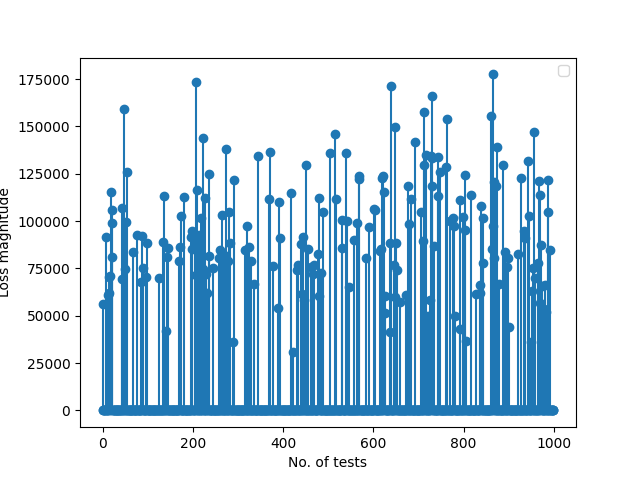
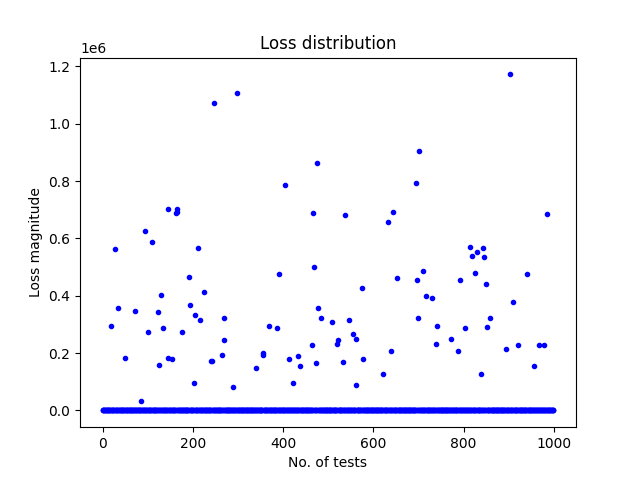
update and fixes

diff --git a/distros/cyberrisk_sim.py b/distros/cyberrisk_sim.py
@@ -1,13 +1,12 @@
 import matplotlib.pyplot as plt
 import numpy as np
 
-# Simple simulation of a cyberthreat event against IT (cyberattack)
-# Attack is successfull/failed given prior estimated probability
-# If the attack is successful it may cause harm - in $$$
-# With 90% confidence we can estimate interval of the loss, and
-# Lognormal distribution which largely fits the distribution of security
-# incidents where there's far greater number of events with small losess, than
-# those which inflict catastrophic losses.
+# Prosta symulacja zdarzenia cyberbezpieczeństwa, o oszacowanym P;
+# Jeśli atak by się powiódł, oszacowano wystąpienie straty w przedziale X, Y z poziomem
+# ufności 90% (tzn, jest 5% P, ze straty wyjdą poza przedział).
+# Zastosowano tutaj rozkład log-normalny, który istotnie pasuje do rozkładu
+# incydentów bezpieczeństwa, gdzie te najbardziej prawdopodobne (i najczęstsze)
+# przynoszą mniejsze straty, niz te rzadsze.
 
 def threat_event_happened(event_probability):
     return np.random.rand() < event_probability
@@ -23,53 +22,94 @@ def threat_event_comp_by_sec(event_probability, ctrl_reduct):
     return reduced
 
 def loss_distribution(te_prob, ctrl_reduct, no_of_simulations, lower_bnd, upper_bnd):
-    i = 0
-    accum = 0
     sim_lst = []
     for i in range(no_of_simulations):
         if (threat_event_comp_by_sec(te_prob,ctrl_reduct)) > 0:
             threat_loss = threat_event_loss(lower_bnd, upper_bnd)
             sim_lst.append("{:.2f}".format(threat_loss))
-            accum += threat_loss
         else:
             threat_loss = 0
             sim_lst.append(threat_loss)    
-    loss_average = accum/i
-    return sim_lst, loss_average
+    return sim_lst
+
+def loss_average(sim_lst):
+    x = 0
+    accu = 0
+    losses = list(map(float, sim_lst))
+    for loss in losses:
+        if loss > 0:
+            accu += loss
+            x += 1
+    loss_ave = round(accu/x, 2)
+    return loss_ave
 
 def draw_loss_distribution(sim_lst):
     x = 0
     losses = list(map(float, sim_lst))
     fig, ax = plt.subplots()
     for loss in losses:
-        ax.stem(x, loss)
+        ax.plot(x, loss,  **{'color': 'blue', 'marker': '.'})
         x += 1
     ax.set_xlabel('No. of tests')
     ax.set_ylabel('Loss magnitude')
-    ax.legend()
-    plt.savefig('fig1.png')
+    ax.set_title('Loss distribution')
+    fig.savefig('fig1.png')
 
-###################################
-# Example:
-# P(TE) = 20%
-# LOSS(TE) -> LB = 50 000 PLN
-# LOSS(TE) -> UB = 150 000 PLN
-#
-# Security Control in place
-# -> reduction P(TE) by 70%
-#
-# Number of simulations: 1000
-###################################
+def loss_exceedance_curve(sim_lst, TE_UB, STEP):
+    loss_ex_lst = []
+    losses = list(map(float, sim_lst))
+    losses_count = 0
+    for loss in losses:
+        if loss > 0: losses_count += 1
+    for x in range(0,TE_UB,STEP):
+        accu = 0
+        for loss in losses:
+            if loss > 0 and loss > x: 
+                accu += 1
+        loss_ex_lst.append([x,round(accu/losses_count,2)*100])
+    return loss_ex_lst
 
-TE = 0.2
-TE_LB = 50000
-TE_UB = 150000
+def draw_loss_exceedance(lst, lst_for_risk_tolerance):
+    fig, ax = plt.subplots()
+    for x, perc in lst:
+        ax.plot(x, perc, **{'color': 'black', 'marker': '.'})
+    for x, perc in lst_for_risk_tolerance:
+        ax.plot(x, perc, **{'color': 'red', 'marker': '.'})
+    ax.set_xlabel('Loss magnitude')
+    ax.set_ylabel('P(loss exceeded)')
+    ax.set_title('Loss exceedance curve')
+    fig.savefig('fig2.png')
+
+#######################################################################
+# Przykład:
+# Wystąpienie zdarzenia - P(TE) = 10%
+# dolna granica oczekiwanej straty - LOSS(TE) -> LB = 100 000 PLN
+# górna granica oczekiwanej straty - LOSS(TE) -> UB = 1 000 000 PLN
+#
+# Istniejące środki bezpieczeństwa:
+# -> redukcja wystąpienia P(TE) o 70%
+#
+# Liczba symulacji: 1000
+#
+# Zakładana tolerancja na strate w następstwie incydentow bezp w ciagu roku:
+#   100 000 PLN - 90%
+#   250 000 PLN - 50%
+#   500 000 PLN - 20%
+#   750 000 PLN -  5%
+#  1000 000 PLN -  1%
+########################################################################
+
+TE = 0.1
+TE_LB = 100000
+TE_UB = 1000000
+STEP = 25000
 SEC_CTRL_RED = 0.7
 NO_SIMULATIONS = 1000
+RISK_TOLERANCE = [[100000,90], [250000,50], [500000,20],[750000,5],[1000000,1]]
 
 # run:
 
-sim_lst, loss_ave = loss_distribution(TE, SEC_CTRL_RED, NO_SIMULATIONS, TE_LB, TE_UB)
+sim_lst = loss_distribution(TE, SEC_CTRL_RED, NO_SIMULATIONS, TE_LB, TE_UB)
 draw_loss_distribution(sim_lst)
-print("Average loss: {:,.2f} PLN".format(loss_ave))
-# draw_loss_exceedance_curve(sim_lst)
+print("Average loss: {:,.2f} PLN".format(loss_average(sim_lst)))
+draw_loss_exceedance(loss_exceedance_curve(sim_lst, TE_UB, STEP), RISK_TOLERANCE)
